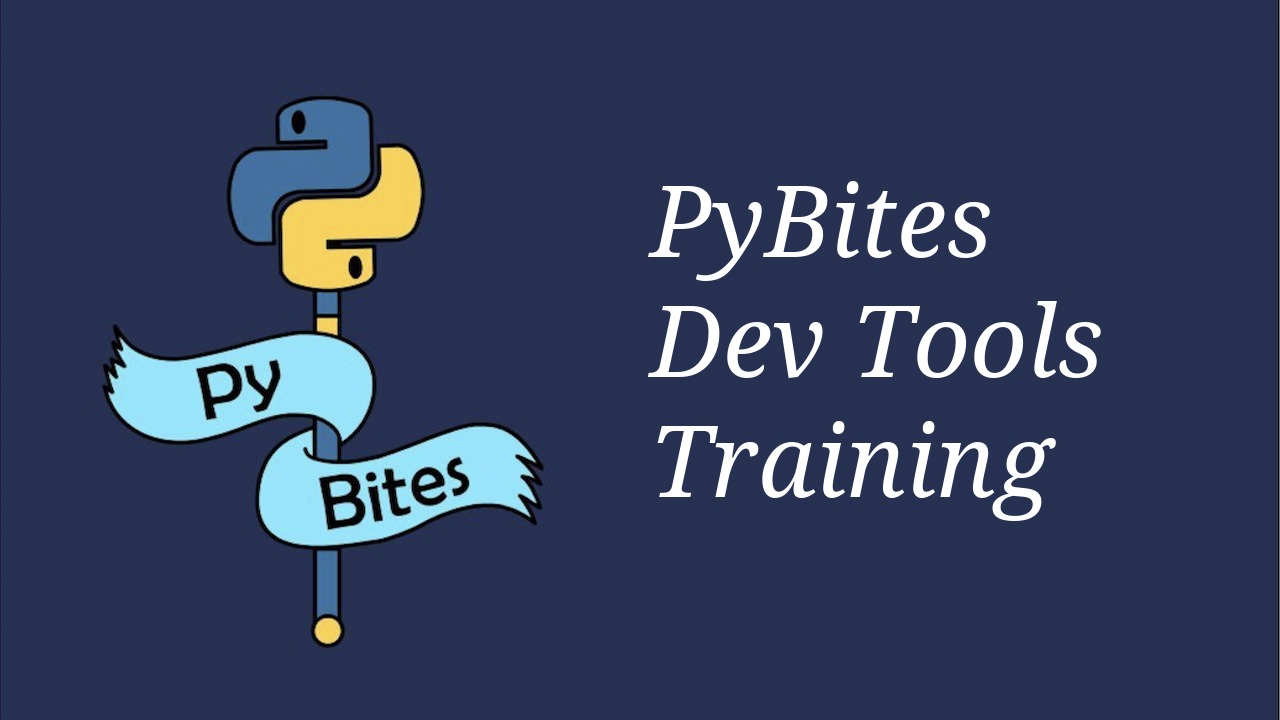
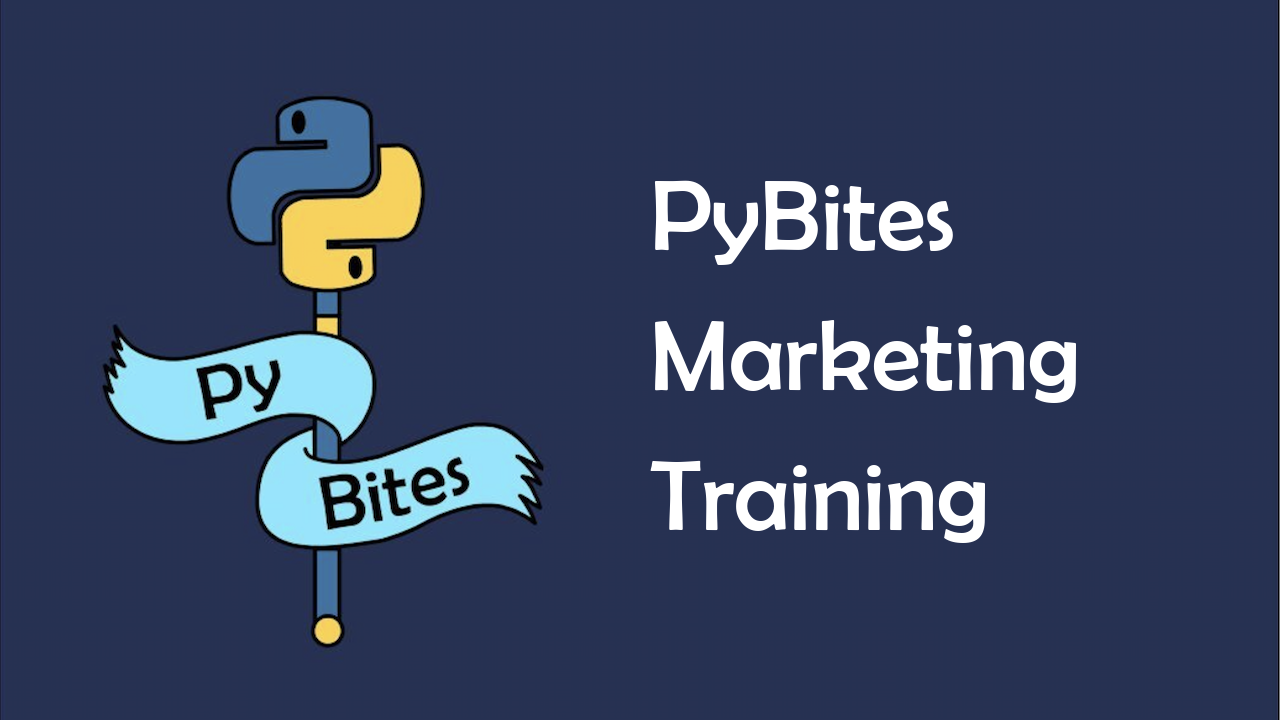
add youtube script to make all thumbs for YT fix filename creation also changed separator = easier updated example image

Changed region(s): [[0.5, 0.3972, 0.875, 0.5806], [0.5, 0.5806, 0.8438, 0.7639], [0.5, 0.2444, 0.7812, 0.3972]]

diff --git a/thumbs.py b/thumbs.py
@@ -1,7 +1,7 @@
 import os
 from pathlib import Path
 import re
-from string import ascii_lowercase
+from string import ascii_lowercase, digits
 import sys
 
 from dotenv import load_dotenv
@@ -12,10 +12,10 @@ load_dotenv()
 BACKGROUND_IMG = os.environ["THUMB_BACKGROUND_IMAGE"]
 OUTPUT_DIR = "images"
 FONT_FILE = os.environ["THUMB_FONT_TTF_FILE"]
-START_OFFSET_TEXT = (650, 150)
+START_OFFSET_TEXT = (650, 160)
 TEXT_COLOR = (255, 255, 255, 255)
-LINE_SPACING = 120
-NEW_LINE = "\\n"
+LINE_SPACING = 140
+SEPARATOR = "|"
 
 
 def _add_text(image, base, text, offset,
@@ -28,8 +28,8 @@ def _add_text(image, base, text, offset,
 
 
 def _create_output_file_name(text):
-    fname = text.replace(NEW_LINE, " ")
-    fname = re.sub(f"[^{ascii_lowercase}]", "-", fname.lower())
+    fname = text.replace(SEPARATOR, " ")
+    fname = re.sub(f"[^{ascii_lowercase + digits}]", "-", fname.lower())
     fname = f"{fname}.png"
     return fname
 
@@ -40,7 +40,7 @@ def create_thumbnail(text, template=BACKGROUND_IMG):
 
     offset = START_OFFSET_TEXT
 
-    for i, line in enumerate(text.split(NEW_LINE)):
+    for i, line in enumerate(text.split(SEPARATOR)):
         left, top = offset
         top += i * LINE_SPACING
         _add_text(image, base, line, (left, top))

diff --git a/youtube.py b/youtube.py
@@ -1,0 +1,17 @@
+from thumbs import create_thumbnail
+
+
+def _get_titles():
+    with open("data/videos.txt") as f:
+        for title in f.readlines():
+            yield title.rstrip()
+
+
+def main():
+    titles = _get_titles()
+    for title in titles:
+        create_thumbnail(title)
+
+
+if __name__ == "__main__":
+    main()

diff --git a/README.md b/README.md
@@ -13,10 +13,10 @@ pip install -r requirements.txt
 
 ## Usage
 
-To start simple the script relies on short titles it splits by newline, for example:
+To start simple the script relies on short titles it splits by a pipe character, for example:
 
 ```
-python thumbs.py "PyBites\nDev Tools\nTraining"
+python thumbs.py "PyBites|Marketing|Training"
 ```
 
 ... creates this image in the `images/` output folder:
